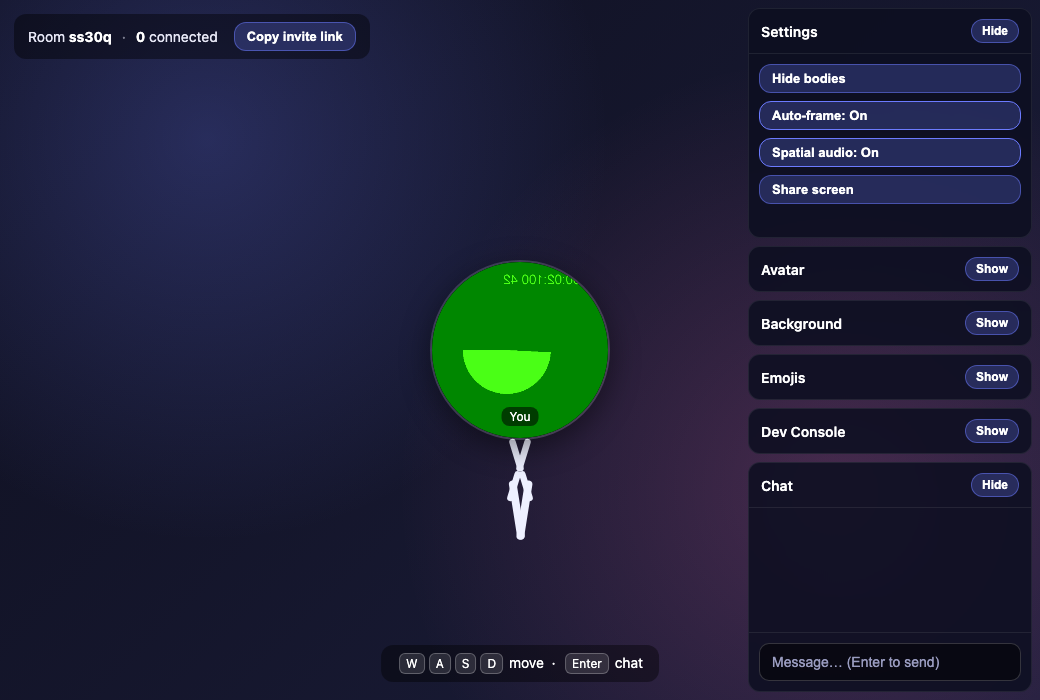
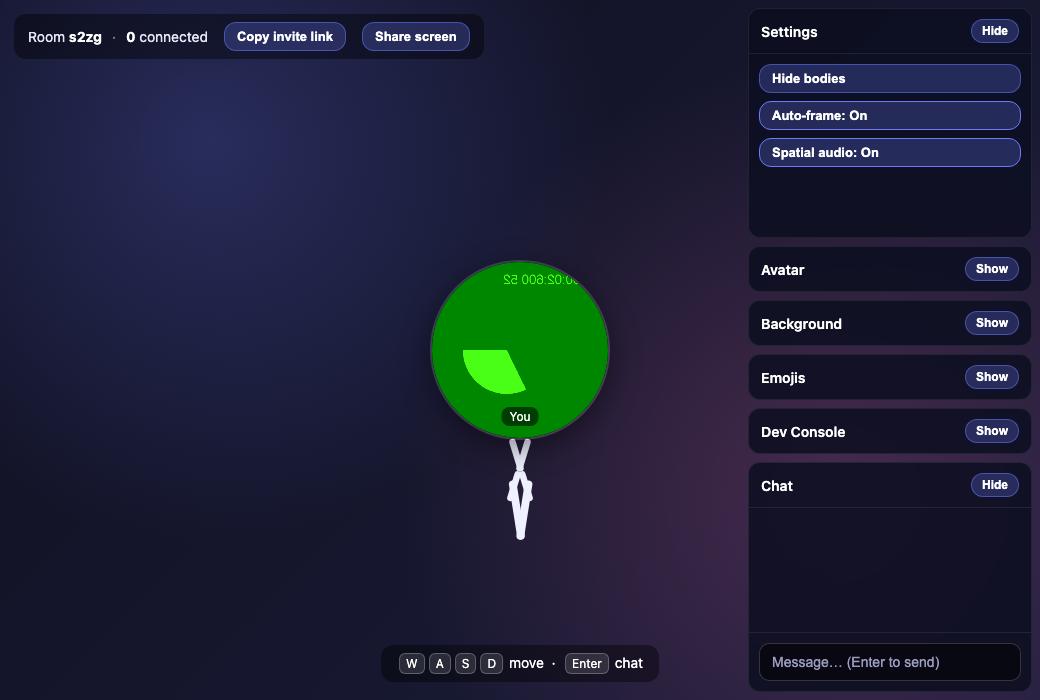
Keep Share screen in the top bar (it's an action, not a setting)
Per review: Share screen is an action, so leave it on the top bar; the Settings
panel holds just the configuration toggles (Hide bodies, Auto-frame, Spatial
audio).

Verified headless: top bar = Copy invite link + Share screen; Settings panel =
the three config toggles; no errors.

diff --git a/index.html b/index.html
@@ -17,6 +17,7 @@
       <span class="dot">·</span>
       <span><strong id="peer-count">0</strong> connected</span>
       <button id="copy-link" class="ghost">Copy invite link</button>
+      <button id="toggle-screen" class="ghost">Share screen</button>
     </div>
 
     <!-- Your movable webcam tile (the .head is the webcam; the stick-figure
@@ -108,7 +109,6 @@
           <button id="toggle-body" class="ghost">Hide bodies</button>
           <button id="toggle-frame" class="ghost">Auto-frame: On</button>
           <button id="toggle-spatial" class="ghost">Spatial audio: On</button>
-          <button id="toggle-screen" class="ghost">Share screen</button>
         </div>
       </section>
 

diff --git a/README.md b/README.md
@@ -185,10 +185,10 @@ The long-term direction is to grow the meeting from "a call you can move your we
   removes the peer immediately.)
 
 ### Milestone 23 — Settings moved to a side panel ✅
-- The room/AV toggles (**Hide bodies**, **Auto-frame**, **Spatial audio**,
-  **Share screen**) moved off the crowded top bar into a dedicated **Settings**
-  section in the right sidebar, so the top bar stays focused on room status and
-  there's room to grow.
+- The configuration toggles (**Hide bodies**, **Auto-frame**, **Spatial audio**)
+  moved off the crowded top bar into a dedicated **Settings** section in the
+  right sidebar. The top bar keeps room status, the invite link, and **Share
+  screen** (an action rather than a setting).
 
 ### Future milestones
 - More actions; move/delete cards. Mini-games, emotes, and more (see the open issues).